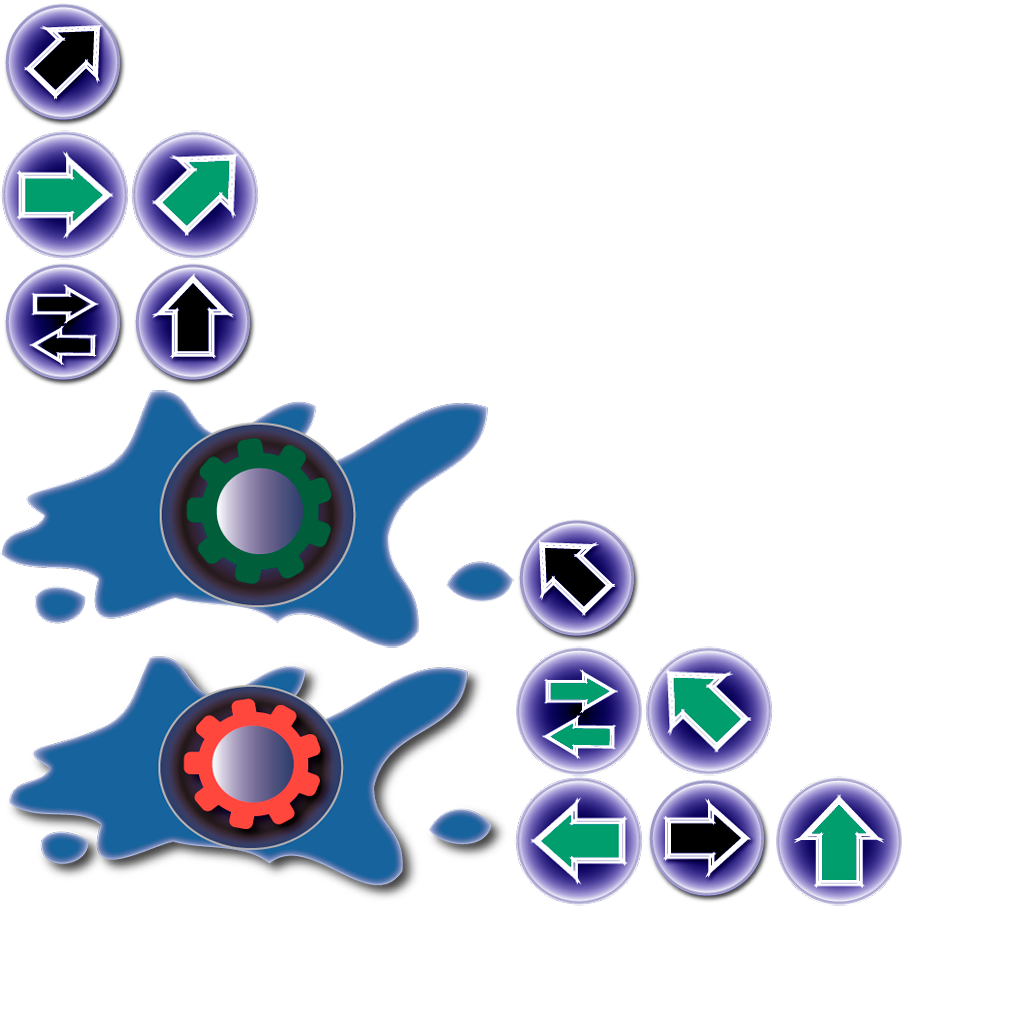
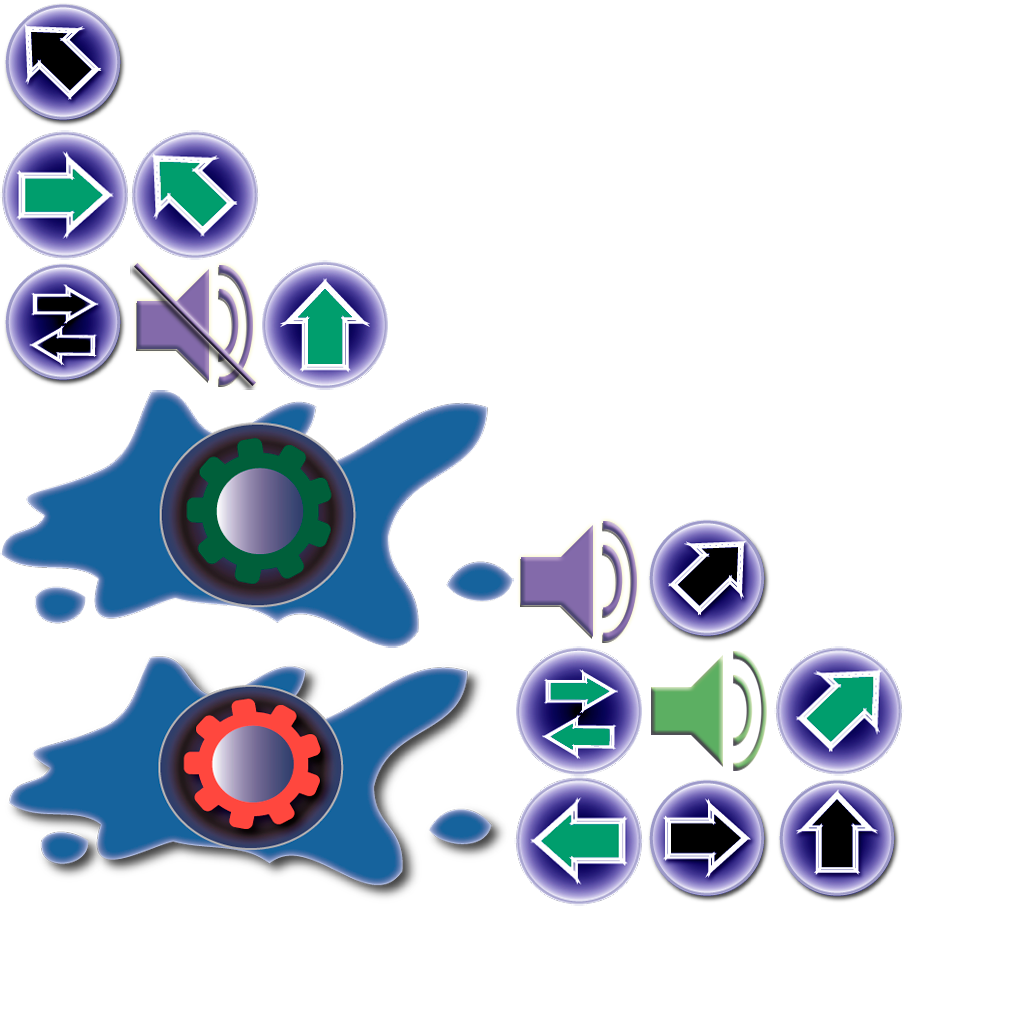
картинки для кнопок управления звуком + панели опций

Changed region(s): [[0.5, 0.5, 0.9062, 0.9062], [0.125, 0.125, 0.375, 0.375], [0.0, 0.0, 0.125, 0.0938]]

diff --git a/graphdict/src/net/slezok/dots/screens/DictScreen.java b/graphdict/src/net/slezok/dots/screens/DictScreen.java
@@ -48,7 +48,6 @@ public class DictScreen extends ActorGestureListener implements Screen {
 	
 	private static final float CONTROL_PANEL_MOVE_TIME = 2;
 	private static final float UNVISIBLE_X_POSITION = -300;
-	private static final float CONTROL_MUSIC_X_POSITION = 0;
 	private static final float CONTROL_MUSIC_Y_POSITION = 400;
 
 	private final Dots game;
@@ -285,8 +284,9 @@ public class DictScreen extends ActorGestureListener implements Screen {
 
 		repeatButton.addListener(buttonListener);
 		
-		controlMusicButton = new ImageButton(new TextureRegionDrawable(Assets.up), 
-				new TextureRegionDrawable(Assets.upPressed), new TextureRegionDrawable(Assets.repeat));
+		controlMusicButton = new ImageButton(new TextureRegionDrawable(Assets.musicOn), 
+				new TextureRegionDrawable(Assets.musicPressed), new TextureRegionDrawable(Assets.musicOff));
+		controlMusicButton.setSize(controlMusicButton.getPrefWidth()*0.5f, controlMusicButton.getPrefHeight()*0.5f);
 		controlMusicButton.addListener(settButtonListener);
 	}
 
@@ -573,7 +573,8 @@ public class DictScreen extends ActorGestureListener implements Screen {
 
 	private void showSettingsPanel() {
 		settBackground.addAction(Actions.moveTo(-SETT_HANDLER_WIDTH, 0, CONTROL_PANEL_MOVE_TIME, Interpolation.elasticOut));
-		controlMusicButton.addAction(Actions.moveTo(CONTROL_MUSIC_X_POSITION, CONTROL_MUSIC_Y_POSITION, CONTROL_PANEL_MOVE_TIME, Interpolation.bounceOut));
+		float buttonX = (settBackground.getWidth()  - 2 * SETT_HANDLER_WIDTH - controlMusicButton.getWidth()) / 2;
+		controlMusicButton.addAction(Actions.moveTo(buttonX, CONTROL_MUSIC_Y_POSITION, CONTROL_PANEL_MOVE_TIME, Interpolation.bounceOut));
 	}
 
 	private void hideSettingsPanel() {

diff --git a/graphdict/src/net/slezok/dots/Assets.java b/graphdict/src/net/slezok/dots/Assets.java
@@ -43,6 +43,10 @@ public class Assets {
 	public static TextureRegion upRightPressed;
 	public static TextureRegion downRightPressed;
 
+	public static TextureRegion musicOn;
+	public static TextureRegion musicPressed;
+	public static TextureRegion musicOff;
+
 	public static TextureRegion play;
 	public static TextureRegion playPressed;
 	
@@ -102,6 +106,10 @@ public class Assets {
 		downLeftPressed = buttonsAtlas.findRegion("down_left_pressed");
 		upRightPressed = buttonsAtlas.findRegion("up_right_pressed");
 		downRightPressed = buttonsAtlas.findRegion("down_right_pressed");
+
+		musicOn = buttonsAtlas.findRegion("sound_on");
+		musicOff = buttonsAtlas.findRegion("sound_off");
+		musicPressed = buttonsAtlas.findRegion("sound_pressed");
 		
 		play = buttonsAtlas.findRegion("play");
 		playPressed = buttonsAtlas.findRegion("play_pressed");
